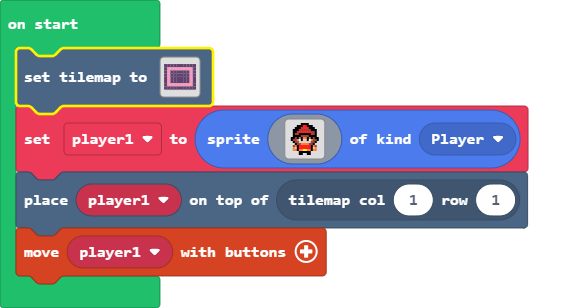
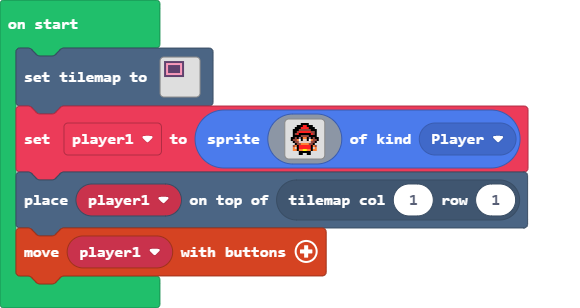
Update main.blocks, main.ts, tilemap.g.jres, tilemap.g.ts

Changed region(s): [[0.0, 0.1461, 0.3724, 0.3799], [0.0621, 0.1753, 0.0931, 0.2045]]

diff --git a/tilemap.g.ts b/tilemap.g.ts
@@ -75,25 +75,6 @@ namespace myTiles {
 2 . 2 . . . 2 2 . 2 
 2 2 2 2 2 2 2 2 2 2 
 `, [myTiles.transparency16,sprites.dungeon.darkGroundNorthWest0,sprites.dungeon.darkGroundWest,sprites.dungeon.darkGroundSouthWest0,sprites.dungeon.darkGroundNorth,sprites.dungeon.collectibleInsignia,sprites.dungeon.darkGroundSouth,sprites.dungeon.darkGroundCenter,sprites.dungeon.darkGroundNorthEast0,sprites.dungeon.darkGroundEast,sprites.dungeon.darkGroundSouthEast0], TileScale.Sixteen);
-            case "level4":
-            case "level4":return tiles.createTilemap(hex`1000100002020202020202020202000000000000020101010101010101020000000000000201020202020202010200000000000002010202020202020102000000000000020102020202020201020000000000000201020202020202010200000000000002010101010101010102000000000000020202020202020202020000000000000000000000000000000000000000000000000000000000000000000000000000000000000000000000000000000000000000000000000000000000000000000000000000000000000000000000000000000000000000000000000000000000000000000000000000000000000000000000000000000000000000000000000000`, img`
-. . . . . . . . . . . . . . . . 
-. . . . . . . . . . . . . . . . 
-. . . . . . . . . . . . . . . . 
-. . . . . . . . . . . . . . . . 
-. . . . . . . . . . . . . . . . 
-. . . . . . . . . . . . . . . . 
-. . . . . . . . . . . . . . . . 
-. . . . . . . . . . . . . . . . 
-. . . . . . . . . . . . . . . . 
-. . . . . . . . . . . . . . . . 
-. . . . . . . . . . . . . . . . 
-. . . . . . . . . . . . . . . . 
-. . . . . . . . . . . . . . . . 
-. . . . . . . . . . . . . . . . 
-. . . . . . . . . . . . . . . . 
-. . . . . . . . . . . . . . . . 
-`, [myTiles.transparency16,myTiles.tile3,myTiles.tile19], TileScale.Sixteen);
             case "level5":
             case "level5":return tiles.createTilemap(hex`1000100000000000000000000000000000000000000000000000000000000000000000000000000000000000000000000000000000000000000000000000000000000000000000000000000000000000000000000000000000000000000000000000000000000000000000000000000000000000000000000000000000000000000000000000000000000000000000000000000000000000000000000000000000000000000000000000000000000000000000000000000000000000000000000000000000000000000000000000000000000000000000000000000000000000000000000000000000000000000000000000000000000000000000000000000000000000`, img`
 . . . . . . . . . . . . . . . . 
@@ -124,6 +105,25 @@ namespace myTiles {
 2 . 2 . . . 2 2 . 2 
 2 2 2 2 2 2 2 2 2 2 
 `, [myTiles.transparency16,myTiles.tile4,myTiles.tile5,myTiles.tile6,myTiles.tile7,myTiles.tile8,myTiles.tile9,myTiles.tile10,myTiles.tile12,myTiles.tile14,myTiles.tile16,myTiles.tile17,myTiles.tile18,myTiles.tile20,myTiles.tile11,sprites.dungeon.darkGroundWest,sprites.dungeon.darkGroundNorth,sprites.dungeon.darkGroundSouth,sprites.dungeon.darkGroundEast,sprites.dungeon.darkGroundNorthWest0,sprites.dungeon.darkGroundSouthEast0,sprites.dungeon.darkGroundNorthEast0], TileScale.Sixteen);
+            case "level4":
+            case "level4":return tiles.createTilemap(hex`1000100002020202020202020202000000000000020101010101010101020000000000000201020202020202010200000000000002010202020202020102000000000000020102020202020201020000000000000201020202020202010200000000000002010101010101010102000000000000020202020202020202020000000000000000000000000000000000000000000000000000000000000000000000000000000000000000000000000000000000000000000000000000000000000000000000000000000000000000000000000000000000000000000000000000000000000000000000000000000000000000000000000000000000000000000000000000`, img`
+. . . . . . . . . . . . . . . . 
+. . . . . . . . . . . . . . . . 
+. . . . . . . . . . . . . . . . 
+. . . . . . . . . . . . . . . . 
+. . . . . . . . . . . . . . . . 
+. . . . . . . . . . . . . . . . 
+. . . . . . . . . . . . . . . . 
+. . . . . . . . . . . . . . . . 
+. . . . . . . . . . . . . . . . 
+. . . . . . . . . . . . . . . . 
+. . . . . . . . . . . . . . . . 
+. . . . . . . . . . . . . . . . 
+. . . . . . . . . . . . . . . . 
+. . . . . . . . . . . . . . . . 
+. . . . . . . . . . . . . . . . 
+. . . . . . . . . . . . . . . . 
+`, [myTiles.transparency16,myTiles.tile3,myTiles.tile19], TileScale.Sixteen);
         }
         return null;
     })

diff --git a/main.ts b/main.ts
@@ -1,7 +1,7 @@
 namespace SpriteKind {
     export const Goal = SpriteKind.create()
 }
-tiles.setTilemap(tilemap`level`)
+tiles.setTilemap(tilemap`level4`)
 let player1 = sprites.create(img`
     . . . . . . f f f f . . . . . . 
     . . . . f f f 2 2 f f f . . . . 
